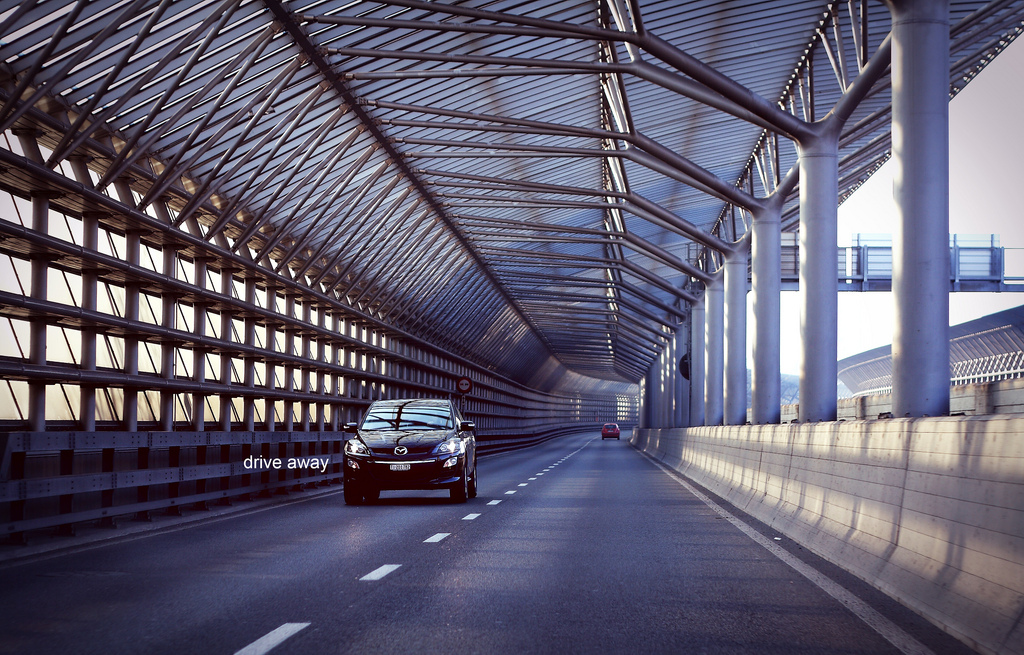
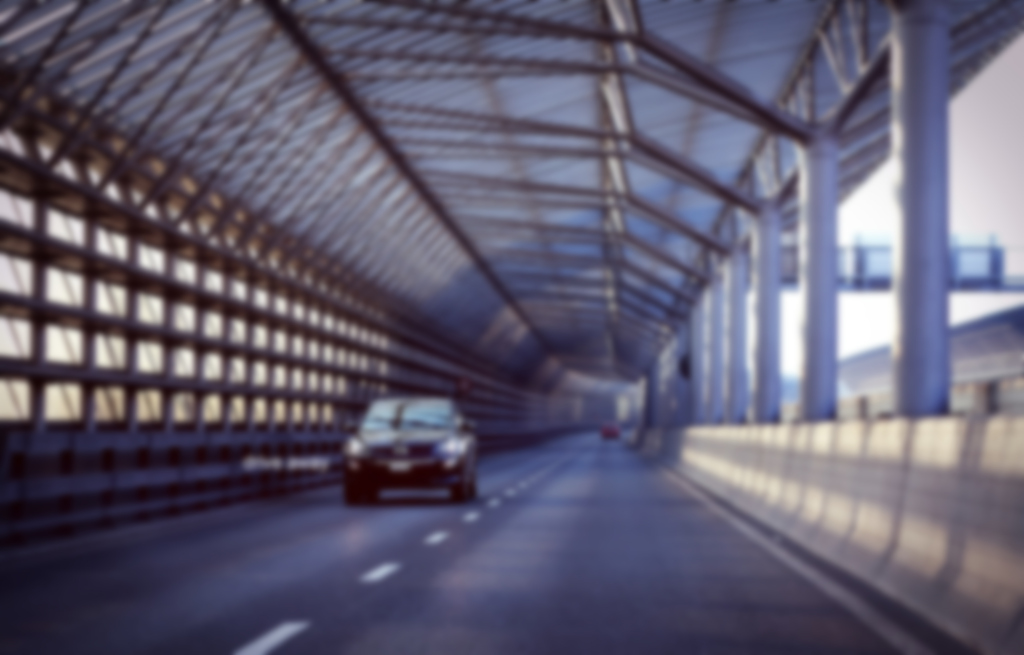
updated

diff --git a/client/app/emmiter/emmiter.html b/client/app/emmiter/emmiter.html
@@ -1,21 +1,21 @@
 <div layout="column" flex layout-fill>
     <md-toolbar>
         <h2 class="md-toolbar-tools">
-        <span>I'm coming!</span>
+        <a ng-href="/"><span>I'm coming!</span></a>
       </h2>
     </md-toolbar>
     <md-card>
         <md-card-content>
             <h2 class="md-title">I am going to you!</h2>
             <p>
-                You can share your position to let's people when you'll arrive!
+                You can share your position to let's people when you'll arrive! Copy the follow links and share it with your people. Now we are in beta.
             </p>
+            <section layout="column" layout-margin>
+                <a href="http://hermes-nefele.rhcloud.com/lktme/{{route._id}}">I'm going by car</a>
+            </section>
+            <section layout="column" layout-margin>
+                <a ng-href="http://hermes-nefele.rhcloud.com/{{route._id}}?travelMode=walking">I'm going by foot</a>
+            </section>
         </md-card-content>
     </md-card>
-    <section layout="column" layout-margin>
-        <md-button class="md-raised md-primary" ng-href="/lktme/{{route._id}}">I'm going by car</md-button>
-    </section>
-    <section layout="column" layout-margin>
-        <md-button class="md-raised md-primary" ng-href="/lktme/{{route._id}}?travelMode=walking">I'm going by foot</md-button>
-    </section>
 </div>

diff --git a/client/app/main/main.html b/client/app/main/main.html
@@ -1,19 +1,12 @@
 <div layout="column" flex layout-fill>
+    <img src="assets/images/background_car.jpg" alt="Washed Out" flex layout-fill class="background-img">
     <md-toolbar>
         <h2 class="md-toolbar-tools">
-        <span>I'm coming!</span>
+        <span>I'm coming! (beta app)</span>
       </h2>
     </md-toolbar>
-    <md-card>
-        <img src="assets/images/background_car.jpg" alt="Washed Out">
-        <md-card-content>
-            <h2 class="md-title">I am going to you!</h2>
-            <p>
-                You can share your position to let's people when you'll arrive!
-            </p>
-        </md-card-content>
-    </md-card>
+
     <section layout="column" layout-margin>
-        <md-button class="md-raised" ng-click="generateLink()">Button</md-button>
+        <md-button class="md-raised" ng-click="generateLink()">Share your position with people</md-button>
     </section>
 </div>

diff --git a/client/app/lktme/lktme.html b/client/app/lktme/lktme.html
@@ -1,7 +1,7 @@
 <div layout="column" flex layout-fill>
 	<md-toolbar>
       <h2 class="md-toolbar-tools">
-        <span>Your guest is to {{distance}} and {{time}}</span>
+        <span>I am to {{distance}} and {{time}} from you</span>
       </h2>
     </md-toolbar>
     <div id="map-canvas" layout="horizontal" flex layout-fill></div>

diff --git a/client/app/app.js b/client/app/app.js
@@ -15,7 +15,7 @@ angular.module('reachingApp', [
             });
 
         $mdThemingProvider.theme('default')
-            .primaryPalette('pink')
+            .primaryPalette('blue')
             .accentPalette('orange');
 
         $locationProvider.html5Mode(true);

diff --git a/client/app/main/main.css b/client/app/main/main.css
@@ -28,3 +28,10 @@
     margin-top: 70px;
     border-top: 1px solid #E5E5E5;
 }
+
+.background-img {
+    position: fixed;
+    min-height: 100%;
+    min-width: 100%;
+    width: auto;
+}
